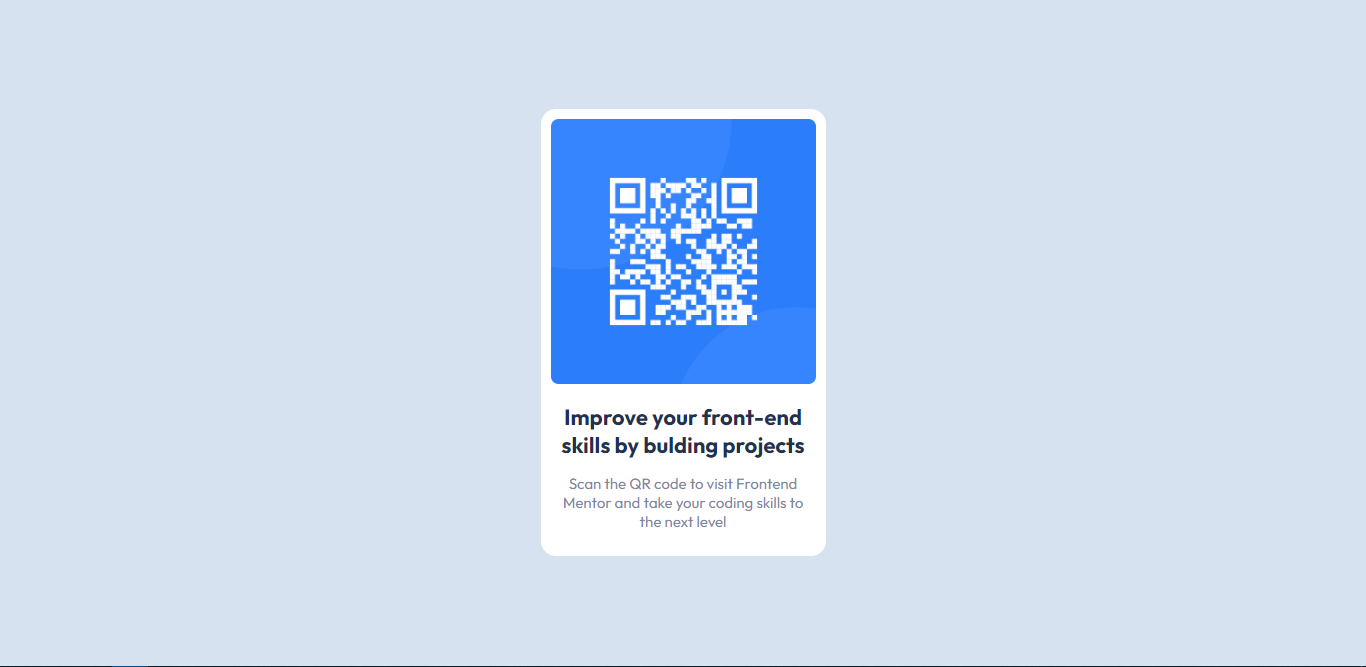
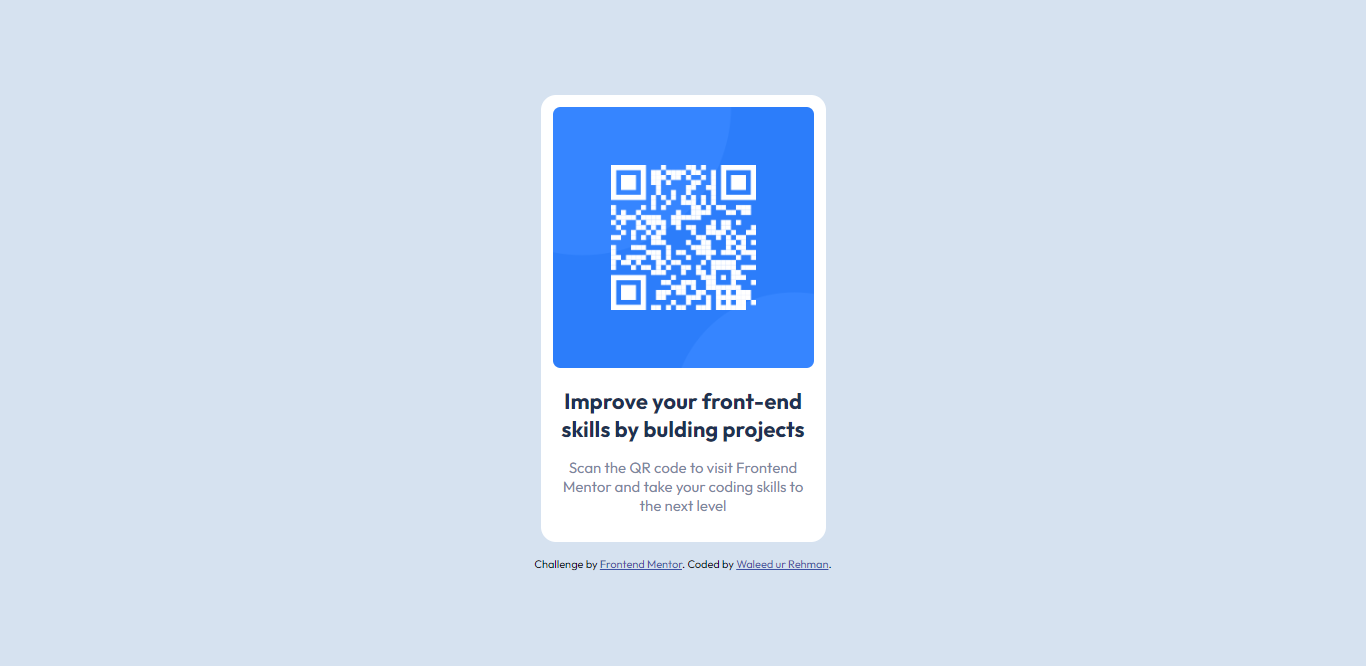
Solve qr-code-component

diff --git a/qr-code-component/style.css b/qr-code-component/style.css
@@ -13,14 +13,22 @@
 	box-sizing: border-box;
 }
 
+.attribution {
+	font-size: 11px;
+	text-align: center;
+}
+.attribution a {
+	color: hsl(228, 45%, 44%);
+}
+
 body {
 	background-color: var(--color-Light-gray);
 	font-family: "Outfit", sans-serif;
 	height: 100vh;
-
 	display: flex;
 	justify-content: center;
 	align-items: center;
+	flex-direction: column;
 }
 
 .container {
@@ -29,6 +37,7 @@ body {
 }
 
 .card {
+	margin-bottom: 15px;
 	background-color: var(--color-White);
 	width: 285px;
 	height: auto;

diff --git a/qr-code-component/index.html b/qr-code-component/index.html
@@ -25,5 +25,11 @@
 				</p>
 			</div>
 		</div>
+		<div class="attribution">
+			Challenge by
+			<a href="https://www.frontendmentor.io?ref=challenge" target="_blank"
+				>Frontend Mentor</a
+			>. Coded by <a href="https://portfolio-waleedrehman31.vercel.app/">Waleed ur Rehman</a>.
+		</div>
 	</body>
 </html>
